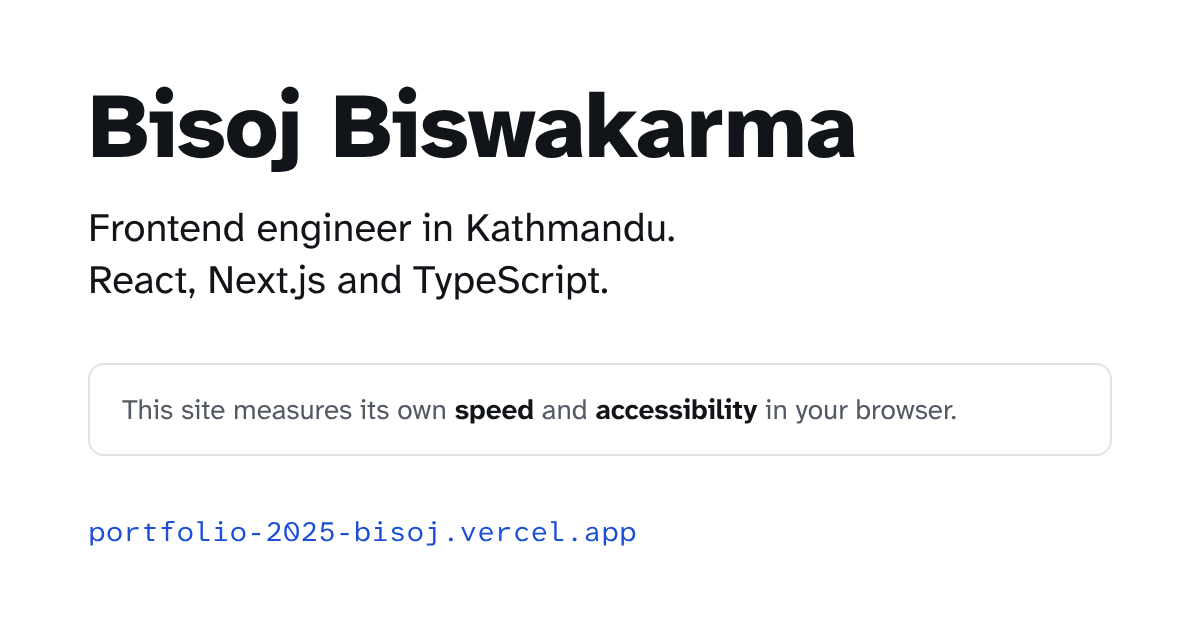
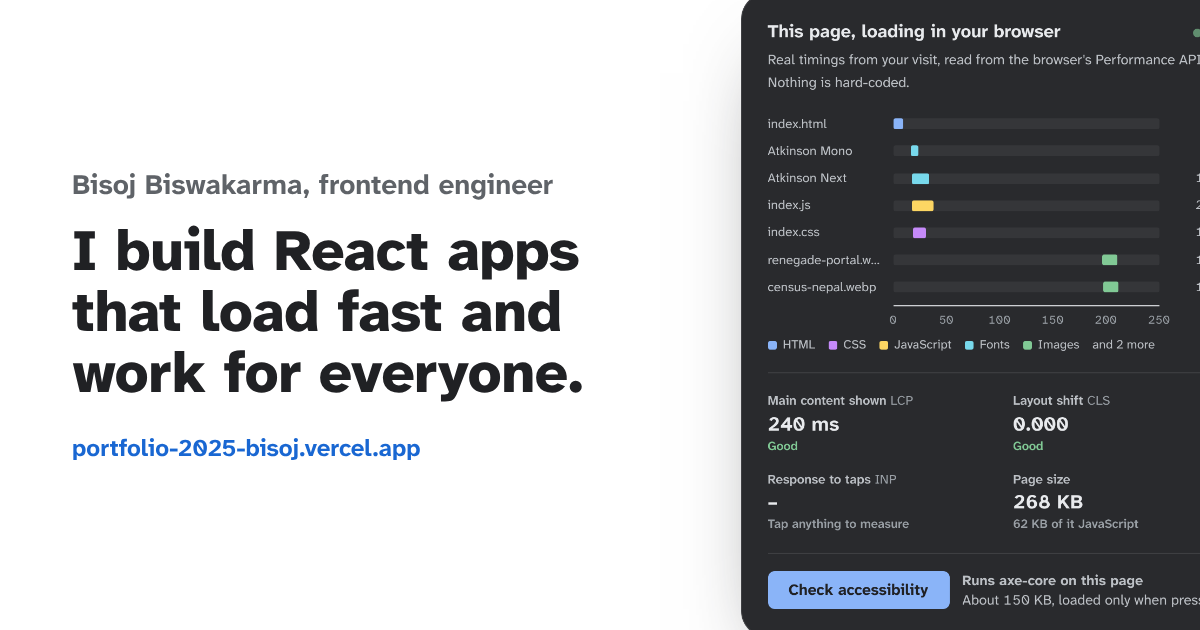
Fix review findings 1-16
Must fix: phone horizontal scroll (sr-only table), dead Census link.
Should fix: line lengths, tablet wide rows, email wrapping, Education
as its own section, plain-language vitals labels, no invented diff
counts, clean project headings (aria-haspopup), 44px nav tap targets.
Polish: tap-to-watch on touch, new share image from the real panel,
lazy video posters, tablet panel width, wrapping mini terminal.

Claude-Session: https://claude.ai/code/session_01Y5b1hZ9hBMW9JvaiWpKX71

diff --git a/src/components/Work.jsx b/src/components/Work.jsx
@@ -10,7 +10,7 @@ const reducedMotion = () => mq("(prefers-reduced-motion: reduce)");
 
 // The card's preview. Recordings play only while the card is hovered or focused,
 // so nothing moves on its own. Previews are decorative: the dialog has the described media.
-const Preview = ({ p, active }) => {
+const Preview = ({ p, active, near }) => {
   const ref = useRef(null);
   useEffect(() => {
     const v = ref.current;
@@ -31,7 +31,8 @@ const Preview = ({ p, active }) => {
         loop
         playsInline
         preload="none"
-        poster={p.media.poster}
+        // The poster loads only when the card is about to scroll into view.
+        poster={near ? p.media.poster : undefined}
         aria-hidden="true"
         tabIndex={-1}
       >
@@ -54,7 +55,7 @@ const Preview = ({ p, active }) => {
 };
 
 // Each project sits on a stage in its product's own colour, with the media rising from the bottom edge.
-const Stage = ({ p, active }) => (
+const Stage = ({ p, active, near, touch }) => (
   <div
     className="relative overflow-hidden rounded-[1.75rem] px-5 pt-5 sm:px-8 sm:pt-8"
     style={{ "--stage": p.stage, background: "rgb(var(--stage) / var(--stage-a, 0.16))" }}
@@ -65,40 +66,58 @@ const Stage = ({ p, active }) => (
         className="absolute left-3 top-3 z-[2] inline-flex items-center gap-1.5 rounded-full bg-bg px-2.5 py-1 text-[0.75rem] font-semibold text-fg sm:left-4 sm:top-4"
       >
         <span className={`h-1.5 w-1.5 rounded-full ${active ? "bg-bad" : "bg-muted"}`} />
-        {active ? "Playing" : "Real recording"}
+        {active ? "Playing" : touch ? "Tap to watch" : "Real recording"}
       </span>
     )}
     <div
       className="relative aspect-[16/10] overflow-hidden rounded-t-xl ring-1 ring-black/10"
       style={{ boxShadow: "0 -12px 40px -16px rgb(var(--stage) / 0.55)" }}
     >
-      <Preview p={p} active={active} />
+      <Preview p={p} active={active} near={near} />
     </div>
   </div>
 );
 
 const Card = ({ p, onOpen }) => {
   const [active, setActive] = useState(false);
+  const [near, setNear] = useState(false);
+  const [touch] = useState(() => !canHover());
+  const ref = useRef(null);
   const wide = p.layout.startsWith("wide");
   const reverse = p.layout === "wide-reverse";
+
+  useEffect(() => {
+    const el = ref.current;
+    if (!el || !("IntersectionObserver" in window)) return setNear(true);
+    const io = new IntersectionObserver(([e]) => e.isIntersecting && (setNear(true), io.disconnect()), { rootMargin: "300px" });
+    io.observe(el);
+    return () => io.disconnect();
+  }, []);
+
   return (
     <article
+      ref={ref}
       id={p.id}
-      className={`proj group relative ${wide ? "md:col-span-12 md:grid md:grid-cols-12 md:items-center md:gap-10" : "md:col-span-6"}`}
+      // Side by side only on wide screens; on tablets the text column would be too narrow.
+      className={`proj group relative ${wide ? "md:col-span-12 lg:grid lg:grid-cols-12 lg:items-center lg:gap-10" : "md:col-span-6"}`}
       onMouseEnter={() => canHover() && setActive(true)}
       onMouseLeave={() => setActive(false)}
       onFocus={() => setActive(true)}
       onBlur={() => setActive(false)}
     >
-      <div className={wide ? `md:col-span-8 ${reverse ? "md:order-2" : ""}` : ""}>
-        <Stage p={p} active={active} />
+      <div className={wide ? `lg:col-span-8 ${reverse ? "lg:order-2" : ""}` : ""}>
+        <Stage p={p} active={active} near={near} touch={touch} />
       </div>
-      <div className={`mt-5 ${wide ? "md:col-span-4 md:mt-0" : ""}`}>
+      <div className={`mt-5 ${wide ? "lg:col-span-4 lg:mt-0" : ""}`}>
         <p className="text-[0.9rem] text-muted">{p.kind}</p>
         <h3 className={`mt-1 leading-tight ${wide ? "text-[1.75rem]" : "text-[1.4rem]"}`}>
-          <button type="button" className="stretched underline-offset-4 group-hover:underline" onClick={(e) => onOpen(p.id, e.currentTarget)}>
+          <button
+            type="button"
+            aria-haspopup="dialog"
+            className="stretched underline-offset-4 group-hover:underline"
+            onClick={(e) => onOpen(p.id, e.currentTarget)}
+          >
             {p.title}
-            <span className="sr-only">, open details</span>
           </button>
         </h3>
         <p className="mt-2 max-w-[34rem]">{p.short}</p>
@@ -207,6 +226,7 @@ const ProjectDialog = ({ p, onClose }) => {
                     </button>
                   </li>
                 )}
+                {p.offline && <li className="text-[0.9rem] text-muted">{p.offline}</li>}
                 {p.links.map((l) => (
                   <li key={l.url}>
                     <a className="btn w-full justify-center" href={l.url} {...ext}>
@@ -277,7 +297,7 @@ const Work = ({ projects, alsoBuilt }) => {
         ))}
       </div>
 
-      <p className="mt-14 max-w-[52rem] text-muted">
+      <p className="mt-14 max-w-[42rem] text-muted">
         <span className="font-bold text-fg">Also built: </span>
         {alsoBuilt.map((a, i) => (
           <React.Fragment key={a.url}>

diff --git a/src/components/Proof.jsx b/src/components/Proof.jsx
@@ -77,8 +77,10 @@ const Waterfall = ({ data, fcp, lcp }) => {
 
   return (
     <div>
-      {/* Screen readers get the same data as a table. */}
-      <table className="sr-only">
+      {/* Screen readers get the same data as a table. The wrapper does the hiding:
+          a <table> ignores the 1px width and would make phones scroll sideways. */}
+      <div className="sr-only">
+      <table>
         <caption>Requests this page made while loading</caption>
         <thead>
           <tr>
@@ -99,6 +101,7 @@ const Waterfall = ({ data, fcp, lcp }) => {
           ))}
         </tbody>
       </table>
+      </div>
 
       <div aria-hidden="true" className="grid grid-cols-[6.5rem_minmax(0,1fr)_3.5rem] items-center gap-x-3 text-[0.75rem]">
         {Array.from({ length: ROWS }, (_, i) => {
@@ -156,9 +159,19 @@ const Waterfall = ({ data, fcp, lcp }) => {
 
 /* ---------- Readouts and the accessibility check ---------- */
 
-const Readout = ({ label, value, rate, hint }) => (
+const Readout = ({ label, abbr, title, value, rate, hint }) => (
   <div className="min-w-0">
-    <dt className="text-[0.72rem] font-semibold text-[#BDC1C6]">{label}</dt>
+    <dt className="truncate text-[0.75rem] font-semibold text-[#BDC1C6]">
+      {label}
+      {abbr && (
+        <>
+          {" "}
+          <abbr title={title} className="font-normal text-[#9AA0A6] no-underline">
+            {abbr}
+          </abbr>
+        </>
+      )}
+    </dt>
     <dd className="text-[1.15rem] font-bold leading-tight tabular-nums text-[#E8EAED]">{value}</dd>
     <dd className={`truncate text-[0.72rem] font-semibold ${rate ? RATING_CLASS[rate] : "text-[#9AA0A6]"}`}>
       {rate ? RATING_TEXT[rate] : hint || " "}
@@ -221,11 +234,19 @@ const LiveChecks = () => {
         <Waterfall data={data} fcp={v.FCP} lcp={v.LCP} />
       </div>
 
-      <dl className="mt-4 grid grid-cols-4 gap-3 border-t border-white/10 pt-4">
-        <Readout label="LCP" value={ms(v.LCP)} rate={rating("LCP", v.LCP)} />
-        <Readout label="CLS" value={v.CLS == null ? "…" : v.CLS.toFixed(3)} rate={rating("CLS", v.CLS)} />
-        <Readout label="INP" value={v.INP == null ? "–" : ms(v.INP)} rate={rating("INP", v.INP)} hint="Tap to measure" />
-        <Readout label="Size" value={data ? kb(data.total) : "…"} hint={data ? `JS ${kb(data.js)}` : ""} />
+      {/* Plain words first; the Core Web Vitals names are there for people who know them. */}
+      <dl className="mt-4 grid grid-cols-2 gap-x-6 gap-y-3 border-t border-white/10 pt-4">
+        <Readout label="Content shown" abbr="LCP" title="Largest Contentful Paint" value={ms(v.LCP)} rate={rating("LCP", v.LCP)} />
+        <Readout label="Layout shift" abbr="CLS" title="Cumulative Layout Shift" value={v.CLS == null ? "…" : v.CLS.toFixed(3)} rate={rating("CLS", v.CLS)} />
+        <Readout
+          label="Response to taps"
+          abbr="INP"
+          title="Interaction to Next Paint"
+          value={v.INP == null ? "–" : ms(v.INP)}
+          rate={rating("INP", v.INP)}
+          hint="Tap anything to measure"
+        />
+        <Readout label="Page size" value={data ? kb(data.total) : "…"} hint={data ? `${kb(data.js)} of it JavaScript` : ""} />
       </dl>
 
       <div className="mt-4 flex flex-wrap items-center gap-x-3 gap-y-2 border-t border-white/10 pt-4">

diff --git a/src/pages/Landing.jsx b/src/pages/Landing.jsx
@@ -75,7 +75,11 @@ const Landing = () => {
             <ul className="flex flex-wrap items-center gap-x-6 gap-y-2">
               {NAV.map(([href, label]) => (
                 <li key={href}>
-                  <a className="font-semibold text-fg no-underline hover:text-link hover:underline" href={href}>
+                  {/* ~44px tall tap area on phones, same look. */}
+                  <a
+                    className="-mx-2 -my-3 inline-block px-2 py-3 font-semibold text-fg no-underline hover:text-link hover:underline md:-my-1 md:py-1"
+                    href={href}
+                  >
                     {label}
                   </a>
                 </li>
@@ -114,7 +118,9 @@ const Landing = () => {
               </a>
             </div>
           </div>
-          <LiveChecks />
+          <div className="max-w-[34rem] lg:max-w-none">
+            <LiveChecks />
+          </div>
         </section>
 
         <section id="work" aria-labelledby="work-title" className="pb-28">
@@ -136,16 +142,22 @@ const Landing = () => {
           </div>
         </section>
 
-        <section id="experience" aria-labelledby="exp-title" className="pb-28">
+        <section id="experience" aria-labelledby="exp-title" className="pb-20">
           <SectionHead id="exp-title" title="Experience" />
           <div className="mt-12">
             <Experience items={data.experience} />
           </div>
-          <div className="mt-20 grid grid-cols-1 gap-12 border-t border-line pt-12 lg:grid-cols-[minmax(0,1fr)_22rem]">
-            <Toolkit groups={data.toolkit} />
-            <Education edu={data.education} resume={p.resume} />
-          </div>
         </section>
+
+        {/* Education gets its own section and heading, apart from work history. */}
+        <div className="grid grid-cols-1 gap-12 border-t border-line pb-28 pt-14 lg:grid-cols-[minmax(0,1fr)_24rem]">
+          <section aria-labelledby="toolkit-title">
+            <Toolkit groups={data.toolkit} />
+          </section>
+          <section id="education" aria-labelledby="edu-title">
+            <Education edu={data.education} resume={p.resume} />
+          </section>
+        </div>
 
         {/* Contact: the address itself is the call to action. */}
         <section id="contact" aria-labelledby="contact-title" className="border-t border-line pb-24 pt-16">
@@ -155,9 +167,11 @@ const Landing = () => {
           <p className="mt-4">
             <a
               href={`mailto:${p.email}`}
-              className="break-all text-[2.2rem] font-extrabold leading-tight tracking-[-0.01em] text-fg decoration-link decoration-[3px] underline-offset-[6px] hover:text-link sm:text-[3.5rem] lg:text-[4.25rem]"
+              className="text-[1.75rem] font-extrabold leading-tight tracking-[-0.01em] text-fg decoration-link decoration-[3px] underline-offset-[6px] hover:text-link sm:text-[3.5rem] lg:text-[4.25rem]"
             >
-              {p.email}
+              {/* If it has to wrap, it wraps after the @, never mid-word. */}
+              {p.email.split("@")[0]}@<wbr />
+              {p.email.split("@")[1]}
             </a>
           </p>
           <div className="mt-6 flex flex-wrap items-center gap-3">

diff --git a/src/components/Career.jsx b/src/components/Career.jsx
@@ -36,7 +36,7 @@ export const Experience = ({ items }) => (
             {e.role} <span className="font-normal text-muted">at</span> {e.company}
           </h3>
           <p className="text-[0.95rem] text-muted">{e.where}</p>
-          <ul className="mt-3 space-y-1.5 text-[1rem] text-muted">
+          <ul className="mt-3 max-w-[35rem] space-y-1.5 text-[1rem] text-muted">
             {e.highlights.map((h) => (
               <li key={h} className="relative pl-4 before:absolute before:left-0 before:top-[0.7em] before:h-1 before:w-1 before:rounded-full before:bg-muted">
                 <Rich text={h} />
@@ -44,7 +44,7 @@ export const Experience = ({ items }) => (
             ))}
           </ul>
           {e.tags.length > 0 && (
-            <p className="mt-3 text-[0.9rem] text-muted">
+            <p className="mt-3 max-w-[35rem] text-[0.9rem] text-muted">
               <span className="font-semibold text-fg">Stack</span> {e.tags.join(", ")}
             </p>
           )}
@@ -56,7 +56,9 @@ export const Experience = ({ items }) => (
 
 export const Toolkit = ({ groups }) => (
   <div>
-    <h3 className="text-[1.4rem] font-bold">Toolkit</h3>
+    <h2 id="toolkit-title" className="text-[1.75rem] font-bold">
+      Toolkit
+    </h2>
     <dl className="mt-5 grid grid-cols-1 gap-x-8 gap-y-4 sm:grid-cols-2">
       {groups.map((g) => (
         <div key={g.group}>
@@ -70,7 +72,9 @@ export const Toolkit = ({ groups }) => (
 
 export const Education = ({ edu, resume }) => (
   <div className="rounded-[1.75rem] bg-tint p-6 sm:p-7">
-    <h3 className="text-[1.4rem] font-bold">Education</h3>
+    <h2 id="edu-title" className="text-[1.75rem] font-bold">
+      Education
+    </h2>
     <p className="mt-4 font-bold leading-snug">{edu.degree}</p>
     <p className="mt-1 text-muted">{edu.school}</p>
     <p className="mt-1 text-muted tnum">{edu.years}</p>

diff --git a/src/components/Media.jsx b/src/components/Media.jsx
@@ -132,10 +132,11 @@ const MINI = [TERM[0], TERM[9], TERM[17], TERM[24], TERM[25]];
 export const MiniTerminal = () => (
   <div aria-hidden="true" className="flex h-full flex-col bg-term font-mono text-[0.72rem] leading-[1.6] sm:text-[0.78rem]">
     <div className="border-b border-white/10 px-3 py-2 font-sans text-[0.75rem] font-semibold text-[#BDC1C6]">clairvoy</div>
-    <div className="flex-1 overflow-hidden whitespace-pre px-3 py-3">
+    <div className="flex-1 overflow-hidden whitespace-pre-wrap px-3 py-3 [overflow-wrap:anywhere]">
       {MINI.map(([tone, text], i) => (
         <span key={i} className={`block ${TONE[tone]} ${tone === "cmd" && i ? "mt-2" : ""}`}>
-          {text.replace(/^  /, "")}
+          {/* Column padding collapsed so the line fits a narrow card; the words are unchanged. */}
+          {text.replace(/^  /, "").replace(/ {3,}/g, "  ")}
         </span>
       ))}
       <span className="mt-1 inline-block h-[1em] w-[0.55em] translate-y-[2px] bg-[#E8EAED] motion-safe:animate-pulse" />

diff --git a/src/components/AiWork.jsx b/src/components/AiWork.jsx
@@ -26,10 +26,7 @@ const DailyVisual = () => (
     <span className="block pl-3 text-[#BDC1C6]">☑ read the code</span>
     <span className="block pl-3 text-[#BDC1C6]">☑ change + tests</span>
     <span className="block pl-3 text-[#BDC1C6]">☐ checks, open PR</span>
-    <span className="mt-1.5 block">
-      <span className="text-[#81C995]">+ 42</span> <span className="text-[#F28B82]">− 17</span>{" "}
-      <span className="text-[#BDC1C6]">for review</span>
-    </span>
+    <span className="mt-1.5 block text-[#81C995]">● diff ready for my review</span>
   </Window>
 );
 
@@ -129,7 +126,7 @@ const AiWork = () => (
         </li>
       ))}
     </ul>
-    <p className="mt-12 max-w-[52rem] text-muted">
+    <p className="mt-12 max-w-[42rem] text-muted">
       <span className="font-bold text-fg">Tools: </span>
       {TOOLS.join(", ")}. I also built <a href="#clairvoy">clairvoy</a> to see where Claude Code's tokens go.
     </p>
